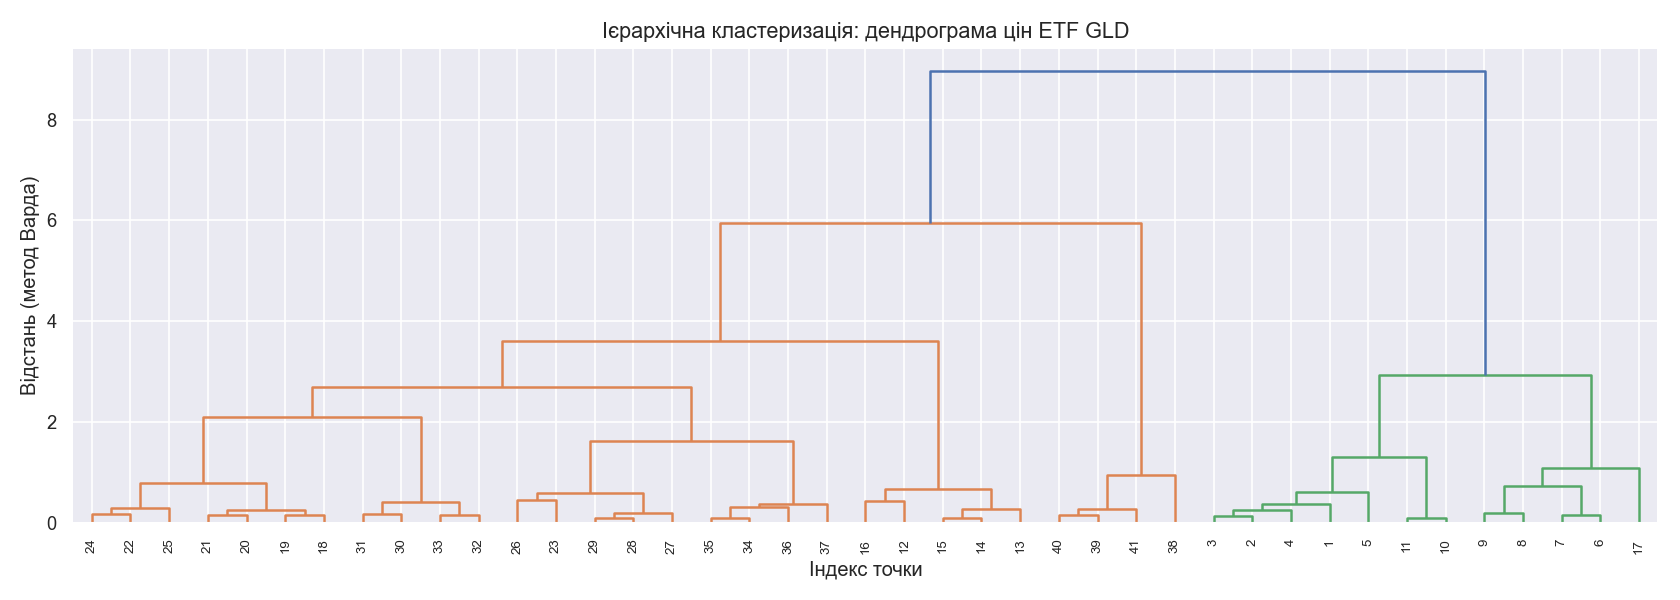
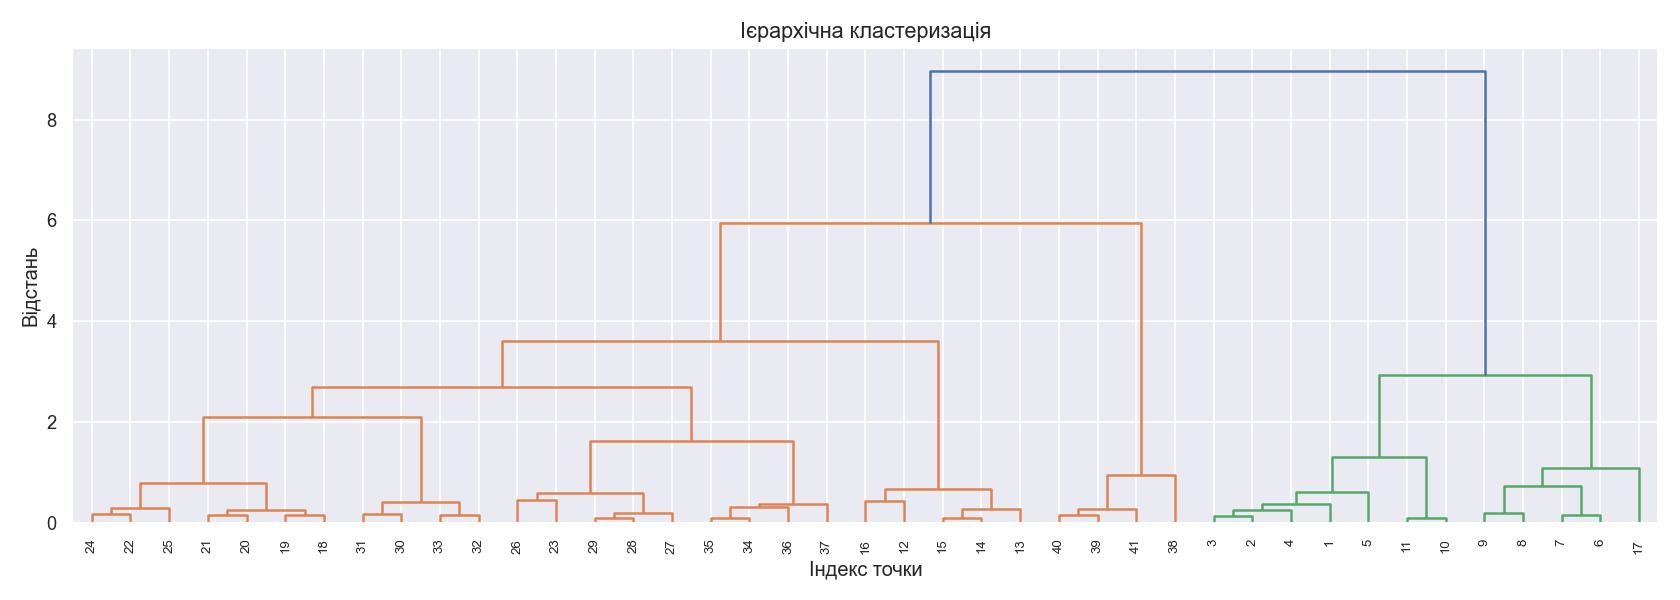
final update

Changed region(s): [[0.3405, 0.03, 0.681, 0.09], [0.0, 0.3, 0.031, 0.66]]

diff --git a/lab 5/task1.py b/lab 5/task1.py
@@ -30,29 +30,21 @@ def file_parsing(File_name):
 
 
 def KMeans_gold(X):
-    """
-    Метод кластеризації KMeans для цін ETF GLD.
-    Аналог KMeans_2 з лекції — тільки замість make_blobs використовуються реальні дані.
-    n_clusters=4 — розбиття на 4 цінові кластери.
-    """
     print("=" * 60)
     print("1. KMeans кластеризація (k-середніх)")
 
-    # масштабування (щоб індекс і ціна мали однаковий вплив)
-    scaler   = StandardScaler()
+    scaler = StandardScaler()
     X_scaled = scaler.fit_transform(X)
 
-    # ---- кластерний аналіз (аналогічно до лекції) ----
-    kmeans   = KMeans(n_clusters=4, random_state=42)
+    kmeans = KMeans(n_clusters=4, random_state=42)
     kmeans.fit(X_scaled)
     y_kmeans = kmeans.predict(X_scaled)
-    centers  = scaler.inverse_transform(kmeans.cluster_centers_)
+    centers = scaler.inverse_transform(kmeans.cluster_centers_)
 
     print(f"Центри кластерів (індекс, ціна):")
     for k, c in enumerate(centers):
         print(f"  Кластер {k+1}: індекс={c[0]:.0f}, ціна={c[1]:.2f} USD")
 
-    # ---- відображення (аналогічно до лекції) ----
     plt.figure(figsize=(12, 5))
     plt.scatter(X[:, 0], X[:, 1], c=y_kmeans, s=15, cmap='viridis', alpha=0.7)
     plt.scatter(centers[:, 0], centers[:, 1], c='black', s=200, alpha=0.8,
@@ -66,7 +58,7 @@ def KMeans_gold(X):
     plt.close()
     print("Графік збережено: kmeans_gold.png")
 
-    # ---- метод ліктя для вибору оптимального k ----
+    # метод ліктя
     inertia = []
     k_range = range(2, 9)
     for k in k_range:
@@ -87,41 +79,30 @@ def KMeans_gold(X):
     return y_kmeans
 
 
-# ---------------------- Ієрархічна кластеризація (з лекції Hierarchy) ----------------------
-
 def Hierarchy_gold(X):
-    """
-    Ієрархічна кластеризація з дендрограмою.
-    Аналог функції Hierarchy() з лекції Klaster.py.
-    Для дендрограми використовується вибірка (кожна 5-та точка) — як у лекції.
-    """
     print("=" * 60)
     print("3. Ієрархічна кластеризація")
 
-    scaler   = StandardScaler()
+    scaler = StandardScaler()
     X_scaled = scaler.fit_transform(X)
 
-    # ---- дендрограма (аналогічно до лекції: linked = linkage(X, 'single')) ----
-    # беремо кожну 5-ту точку для читабельної дендрограми
-    step    = max(1, len(X) // 40)
-    X_sub   = X_scaled[::step]
-    labels  = list(range(1, len(X_sub) + 1))
+    step = max(1, len(X) // 40)
+    X_sub = X_scaled[::step]
+    labels = list(range(1, len(X_sub) + 1))
 
-    linked  = linkage(X_sub, 'ward')   # метод Варда (як affinity='euclidean', linkage='ward' з лекції)
+    linked = linkage(X_sub, 'ward')
 
     plt.figure(figsize=(14, 5))
     dendrogram(linked, orientation='top', labels=labels,
                distance_sort='descending', show_leaf_counts=True)
-    plt.title("Ієрархічна кластеризація: дендрограма цін ETF GLD", fontsize=13)
+    plt.title("Ієрархічна кластеризація", fontsize=13)
     plt.xlabel("Індекс точки")
-    plt.ylabel("Відстань (метод Варда)")
+    plt.ylabel("Відстань")
     plt.tight_layout()
     plt.savefig("hierarchy_dendrogram.png", dpi=120)
     plt.close()
     print("Графік збережено: hierarchy_dendrogram.png")
 
-    # ---- AgglomerativeClustering (аналогічно до лекції) ----
-    # n_clusters=4 — аналогічно до KMeans для порівняння
     cluster = AgglomerativeClustering(n_clusters=4, linkage='ward')
     cluster.fit_predict(X_scaled)
 
@@ -139,13 +120,7 @@ def Hierarchy_gold(X):
     return cluster.labels_
 
 
-# ---------------------- Порівняльний аналіз кластерів ----------------------
-
 def compare_clusters(X, d, y_kmeans, y_hier):
-    """
-    Порівняння результатів KMeans та ієрархічної кластеризації.
-    Статистичний аналіз цін по кластерах.
-    """
     print("=" * 60)
     print("4. Аналіз результатів кластеризації")
 
@@ -162,7 +137,6 @@ def compare_clusters(X, d, y_kmeans, y_hier):
     print("\nСтатистика по кластерах ієрархічної кластеризації:")
     print(df_result.groupby('Hierarchy')['Close'].agg(['min','max','mean','count']).round(2))
 
-    # ---- порівняльний графік ----
     fig, axes = plt.subplots(1, 2, figsize=(14, 5))
 
     axes[0].scatter(X[:, 0], X[:, 1], c=y_kmeans, s=12, cmap='viridis', alpha=0.7)
@@ -181,7 +155,6 @@ def compare_clusters(X, d, y_kmeans, y_hier):
     plt.close()
     print("Графік збережено: comparison.png")
 
-    # ---- висновки ----
     print("=" * 60)
     print("ВИСНОВКИ:")
     print(f"  Всього спостережень: {len(X)}")
@@ -192,9 +165,6 @@ def compare_clusters(X, d, y_kmeans, y_hier):
         print(f"  KMeans кластер {k}: ціни {row['min']:.1f}–{row['max']:.1f} USD "
               f"(середня {row['mean']:.1f} USD)")
     print()
-    print("  KMeans добре виділяє цінові рівні (горизонтальні смуги).")
-    print("  Ієрархічна кластеризація чутливіша до локальних змін тренду.")
-    print("  KNN успішно класифікує нові точки за навченими мітками KMeans.")
 
 
 if __name__ == '__main__':